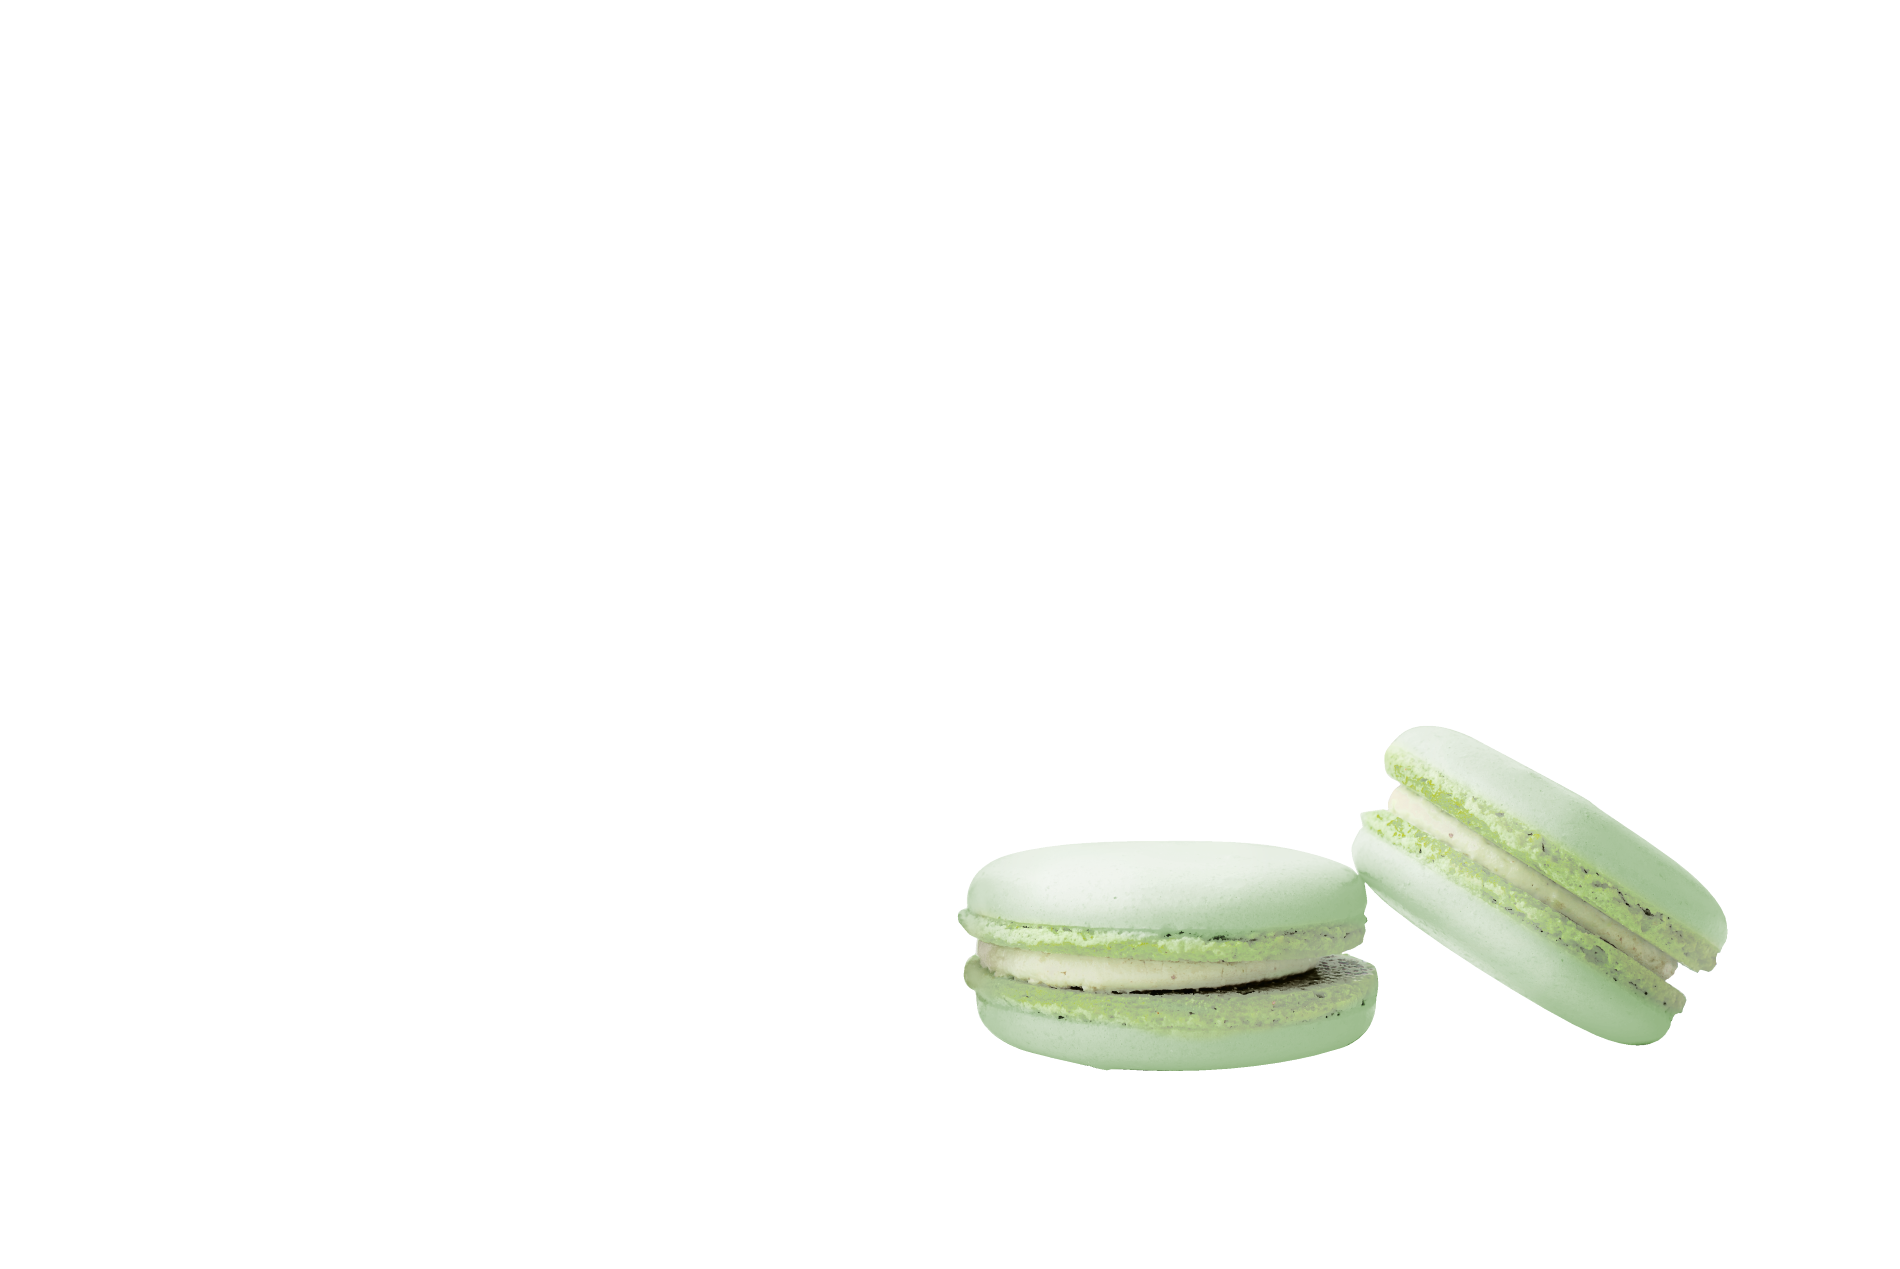
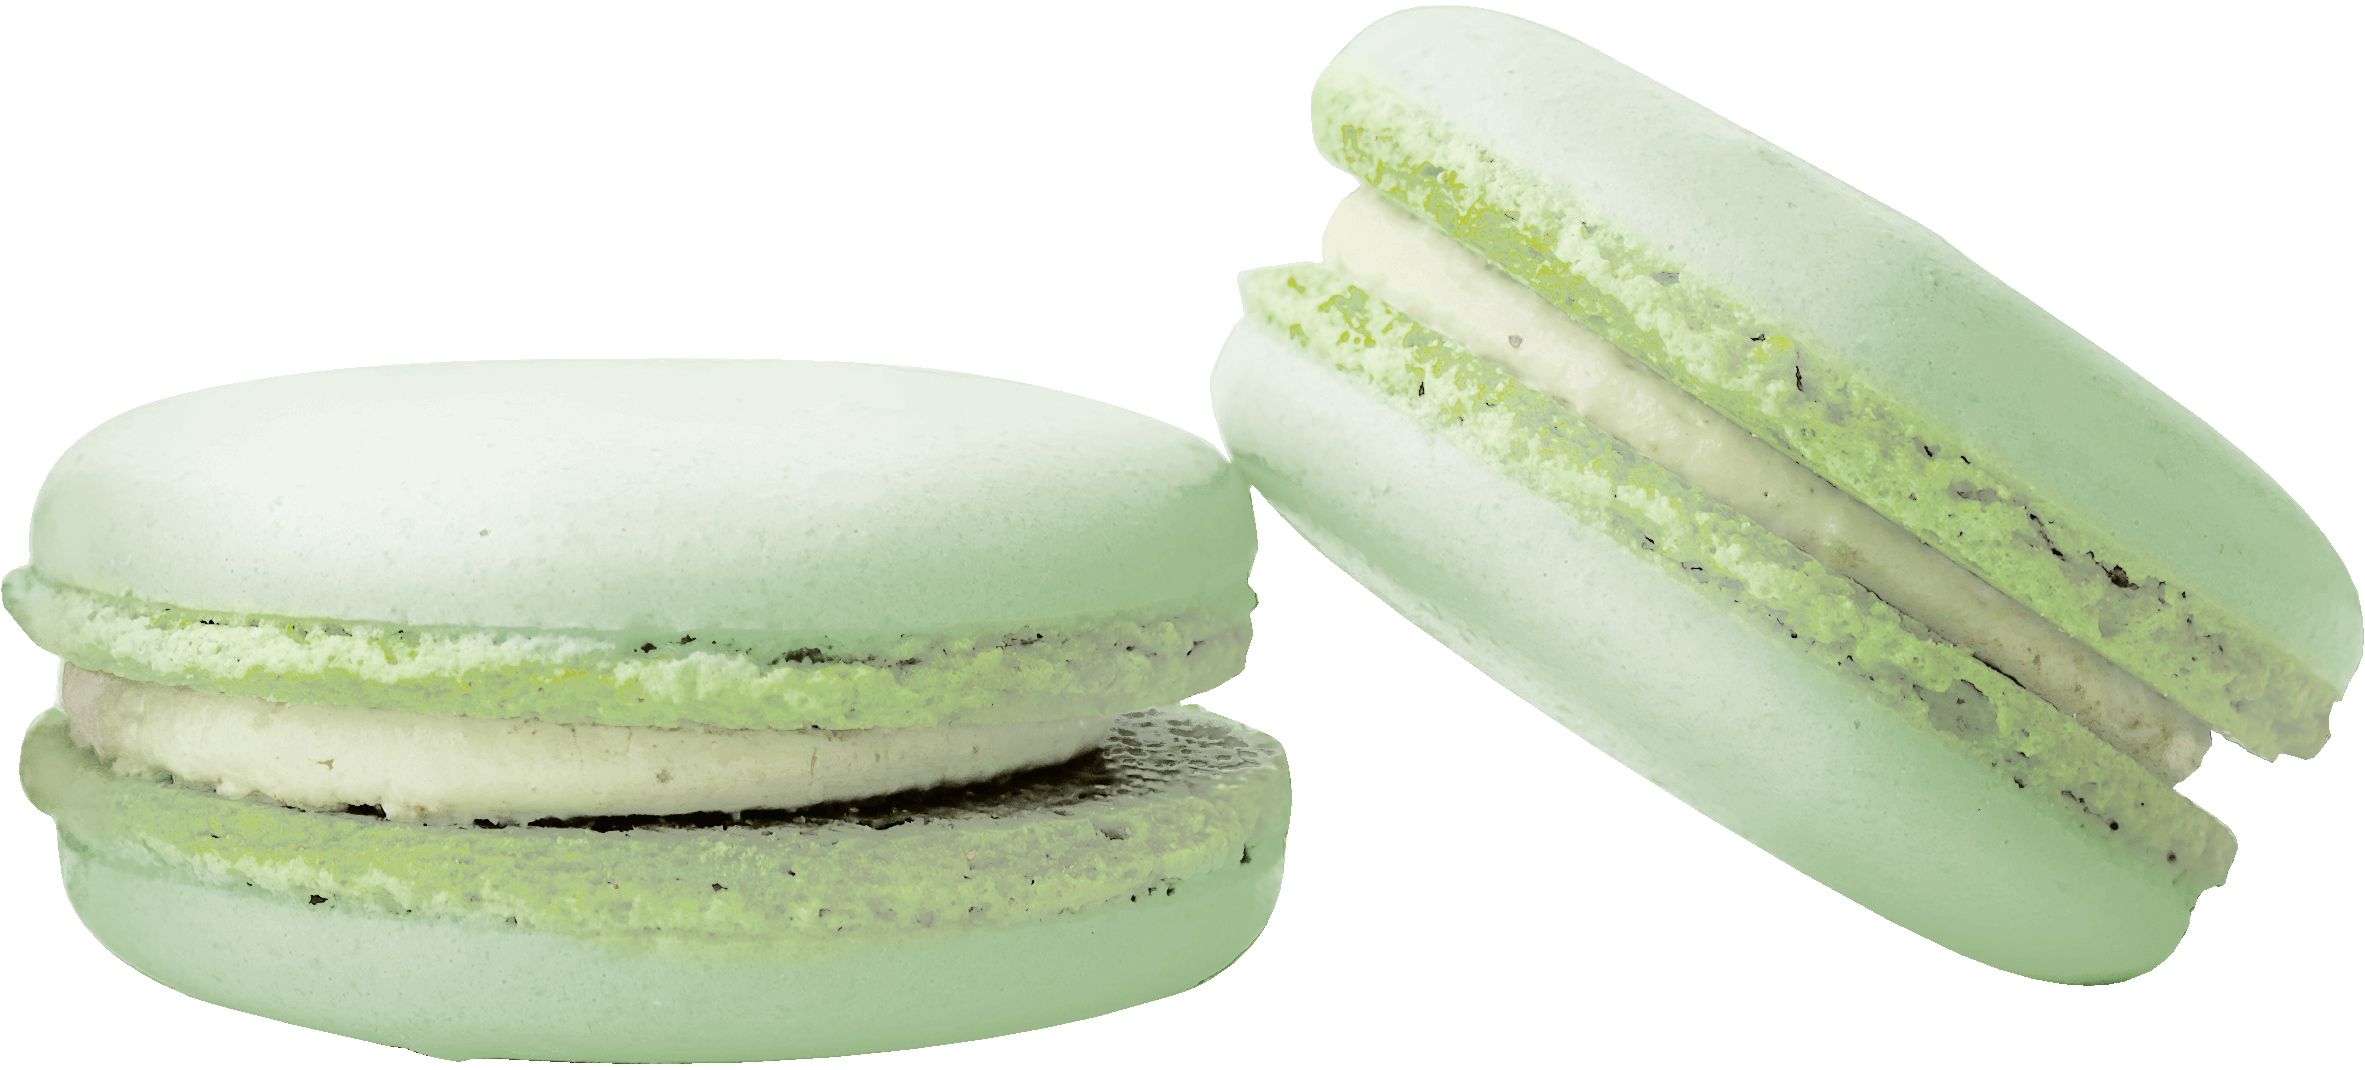
added paralax

diff --git a/index.html b/index.html
@@ -10,7 +10,7 @@
 	<script src="https://cdnjs.cloudflare.com/ajax/libs/wow/1.1.2/wow.min.js"></script>
 </head>
 <body>
-	<section class="top">
+	<section id="top" class="top">
 		<div class="top-panel">
 			<div class="logo">
 				<img src="img/logo.png" alt="logo">
@@ -33,7 +33,13 @@
 		</div>
 	</section>
 	<section id="macaroons" class="macaroons">
-		
+		<div class="fly">
+			<img id="macaroon1" src="img/4_1.png" alt="">
+			<img id="macaroon2" src="img/4_2.png" alt="">
+			<img id="macaroon3" src="img/4_3.png" alt="">
+			<img id="macaroon4" src="img/4_4.png" alt="">
+		</div>
+
 		<p class="first text wow fadeInUp">You feel you are creative
 		You have friends who say that you have a good eye</p>
 		
@@ -79,7 +85,6 @@
 					<img src="img/star.png" alt="">
 					<p>Become a best version of yourself</p>
 				</div>
-
 				<div id="4" class="mini-box 4">
 					<img src="img/lock.png" alt="">
 					<p>365 days access to class</p>
@@ -94,7 +99,7 @@
 
 	</section>
 
-<!-- <script src="https://code.jquery.com/jquery-3.1.1.min.js"></script> -->
+<script src="https://code.jquery.com/jquery-3.1.1.min.js"></script>
 <script>
 //@mb todo - searching through node count if it's possible
 var someText = [
@@ -113,11 +118,52 @@ for (var i = 0; i < document.getElementsByClassName('mini-box').length; i++) {
 <script>                      
 var wow = new WOW(
   {
-    offset: 100,
+    offset: 200,
     live: false
   }
 );
 wow.init();
+</script>
+<script>
+var rotate = 0;
+var topImg = 0;
+
+var lastScrollTop = 0;
+var $parallax = document.querySelectorAll(".fly img")
+	window.addEventListener('scroll', function (e) {
+		var scrollTop = document.body.scrollTop;
+		console.log(scrollTop)
+		if (scrollTop + 100 > document.getElementById('top').scrollHeight) {
+			rotate = (scrollTop - document.getElementById('top').scrollHeight + 100) * 0.05;
+			topImg = (scrollTop - document.getElementById('top').scrollHeight + 100) * 0.140;
+
+
+			// scroll down
+
+			// if (lastScrollTop < scrollTop) {
+			// 	rotate += 0.2;
+			// 	topImg += 0.5;
+			// // scroll up
+			// }else{
+			// 	rotate -= 0.2;
+			// 	topImg -= 0.2;
+			// }
+			for (var i = 0; i < $parallax.length; i++) {
+			$parallax[i].style.transform = 'translate3d(0px,'+ topImg +'px, 0px) rotate(' + rotate + 'deg)';
+				//$parallax[i].style.top = parseInt($parallax[i].style.top) + top + 'px';
+			}
+			lastScrollTop = scrollTop;
+		}
+  
+  // var posY = $parallax.scrollHeight/document.body.scrollTop * 100;
+  // if (posY < 100){
+  // 	$parallax.style.backgroundPositionY = posY+'%';
+  // }
+  
+})
+
+//$('#leftgear').css({ transform: 'rotate(' + theta + 'rad)' });
+
 </script>
 <script>
 // 	window.addEventListener('scroll', function (e) {

diff --git a/css/main.css b/css/main.css
@@ -70,32 +70,58 @@ a{
 }
 
 .macaroons{
-	height: 100vh;
+	height: 120vh;
+	padding: 50px;
 	background-color: rgb(204, 188, 194);
-	background-image: url('../img/4_1.png'), url('../img/4_2.png'), url('../img/4_3.png'), url('../img/4_4.png');
-	background-size: cover;
 	position: relative;
-
+}
+.macaroons .fly{
+	width: 960px;
+	width: 960px;
+    height: 100%;
+    margin: 0 auto;
+    position: relative;
+}
+#macaroon1{
+	right: 200px;
+}
+#macaroon2{
+	right: 80px;
+    top: 170px;
+}
+#macaroon3{
+	width: 120px;
+    right: 460px;
+    top: 320px;
+}
+#macaroon4{
+	width: 360px;
+    top: 370px;
+    right: 100px;
 }
 .macaroons img{
-	width: 100px;
-	transform: translateZ(.25px) scale(.75);
+	width: 200px;
+	transition: all 0.5s ease;
+	position: absolute;
 }
 .macaroons .text{
 	width: 250px;
 	position: absolute;
+    color: white;
+    font-weight: bold;
+    text-align: center;
 }
 .macaroons .text.first{
 	top: 15vh;
     right: 50px;
 }
 .macaroons .text.second{
-	top: 50vh;
+	top: 65vh;
     right: 50px;
 }
 .macaroons .text.third{
-    top: 30vh;
-    right: 650px;
+    top: 40vh;
+    right: 550px;
 }
 .macaroons .text.fourth{
 	top: 80vh;
@@ -169,25 +195,4 @@ a{
 	box-shadow: 0 0 0 0 rgba(248,187,208, 1);
 	animation: pulse 1.25s infinite;
 	margin: 50px 0;
-}
-
-.parallax {
-  perspective: 1px;
-  height: 100vh;
-  overflow-x: hidden;
-  overflow-y: auto;
-}
-.parallax__layer {
-  position: absolute;
-  top: 0;
-  right: 0;
-  bottom: 0;
-  left: 0;
-}
-.parallax__layer--base {
-  transform: translateZ(0);
-}
-.parallax__layer--back {
-	
-  transform: translateZ(-1px);
 }
